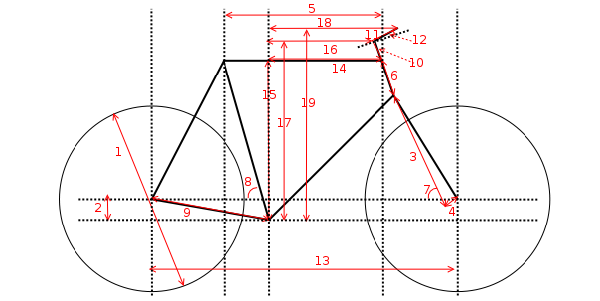
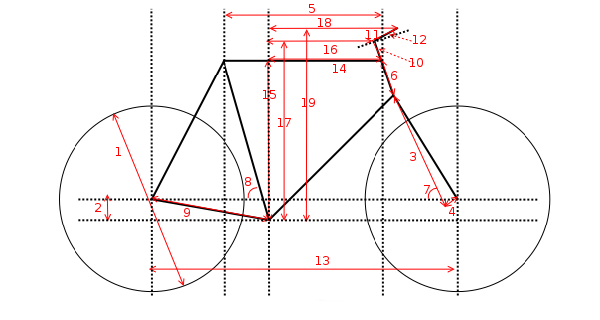
Added more space below bikes. Old space wasn't enough, when outer width of wheel was used.

diff --git a/index.html b/index.html
@@ -30,19 +30,19 @@
   </div>
   <div class = "body">
     <div class = "LeftColumn" >
-      <canvas id="bg" width="600" height="300" class="bike"
+      <canvas id="bg" width="600" height="320" class="bike"
 	      style="z-index: 0;     background-color:#F8F8F8;">
       </canvas> 
-      <canvas id="bike1"  width="600" height="300" class="bike"
+      <canvas id="bike1"  width="600" height="320" class="bike"
 	      style="z-index: 1;">
       </canvas>
-      <canvas id="bike2" width="600" height="300" class="bike"
+      <canvas id="bike2" width="600" height="320" class="bike"
 	      style="z-index: 2;">
       </canvas>
-      <canvas id="bike3" width="600" height="300" class="bike"
+      <canvas id="bike3" width="600" height="320" class="bike"
 	      style="z-index: 3;">
       </canvas>
-      <canvas id="help" width="600" height="300" class="bike"
+      <canvas id="help" width="600" height="320" class="bike"
 	      style="z-index: 4;">
       </canvas>
       <div class="disclaimer">

diff --git a/bikegeo.css b/bikegeo.css
@@ -34,7 +34,7 @@ div.disclaimer
 {
     position:absolute; 
     left: 10px; 
-    top: 320px; 
+    top: 340px; 
     max-width:610px;
     font-size:12px;
 }
@@ -43,7 +43,7 @@ div.Ads
 {
     position:absolute; 
     left: 10px; 
-    top: 400px; 
+    top: 420px; 
     max-width:610px;
     height:150px;
 }    

diff --git a/init.js b/init.js
@@ -18,7 +18,7 @@
 var BB = [270,220];
 var mm2px = 0.3;
 var canvasWidth = 600;
-var canvasHeight = 300;
+var canvasHeight = 320;
 var numOfDec = 0;
 
 // Help toggle function
